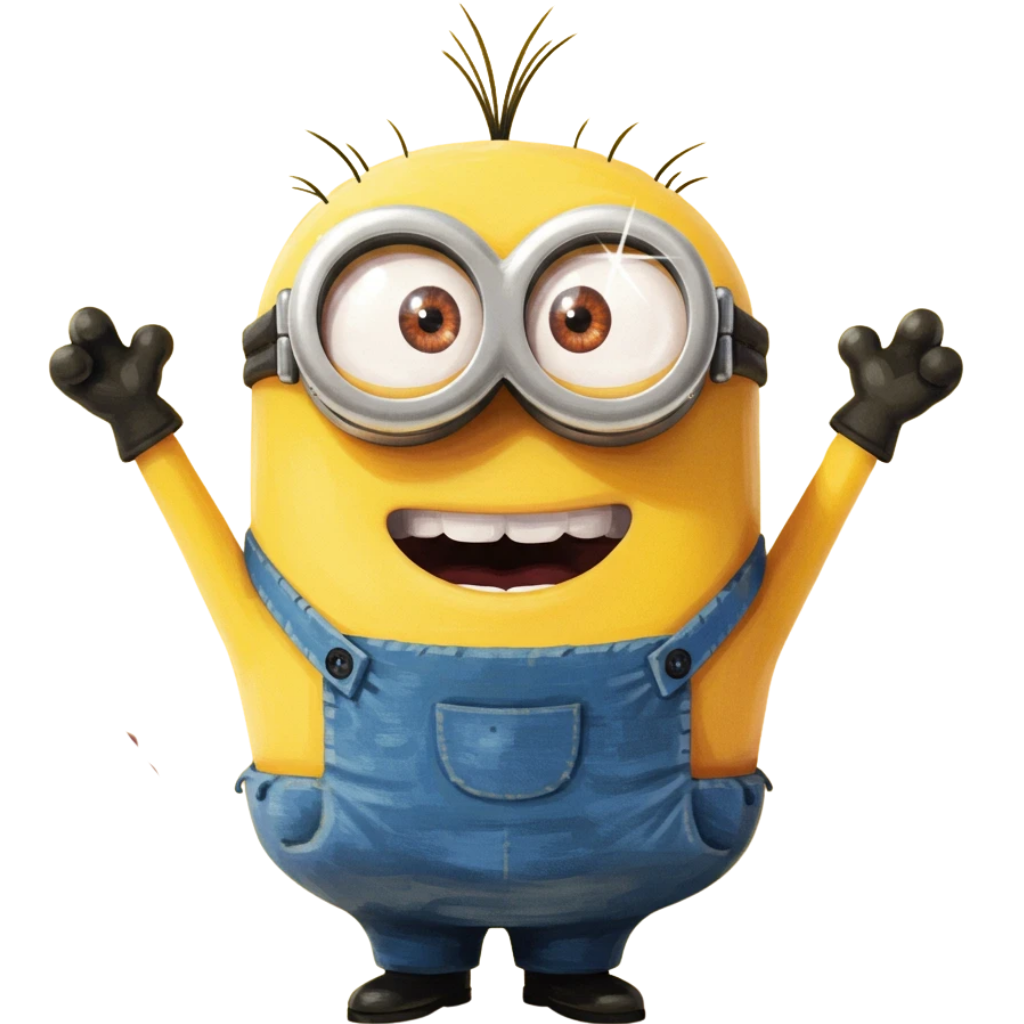
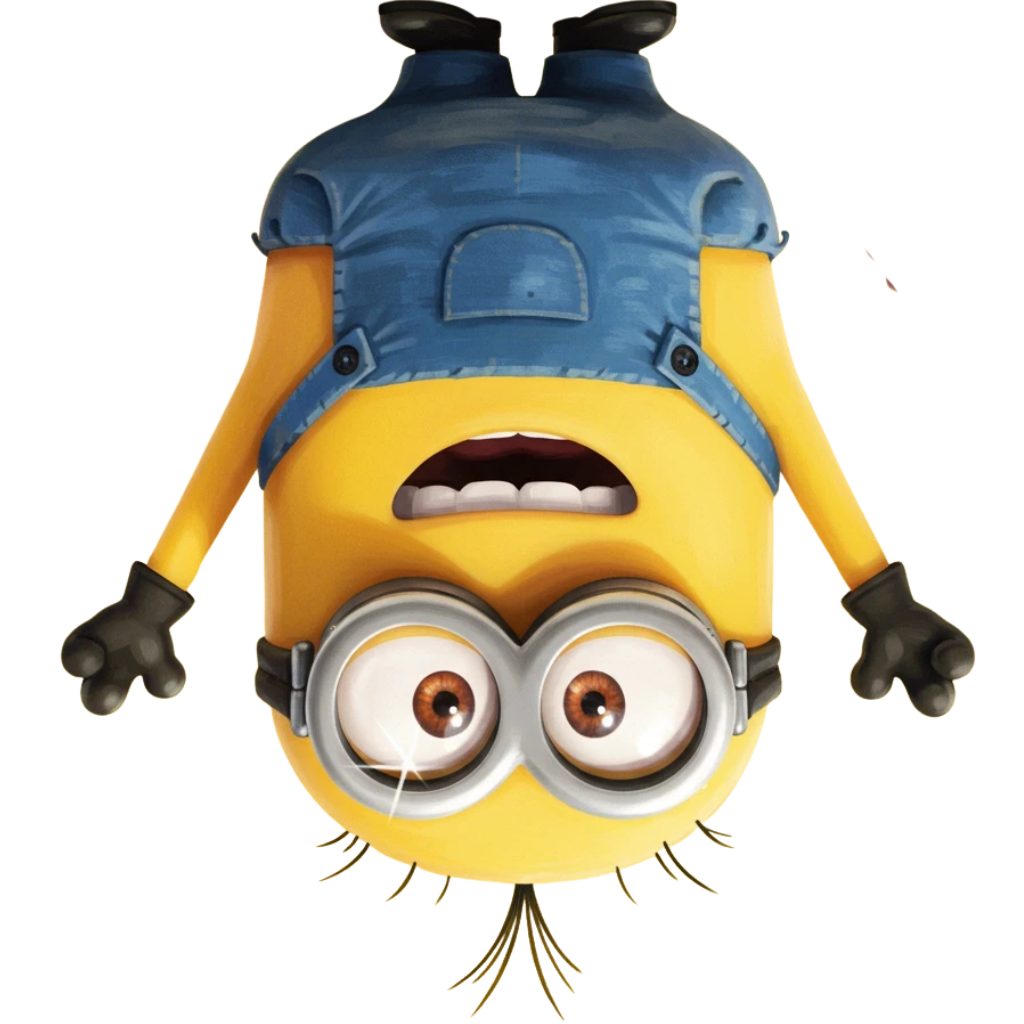
feat: add animated minion to CTA section and implement intersection observer for visibility

diff --git a/oneunifrontend/components/sections/(Landing)/cta.tsx b/oneunifrontend/components/sections/(Landing)/cta.tsx
@@ -1,13 +1,37 @@
 "use client"
 
-import { useState } from "react"
+import { useState, useRef, useEffect } from "react"
 import { EmailModal } from "../../forms/email-modal"
 import { ThankYouSection } from "./thank-you-section"
 import Button from "@/components/ui/button"
+import Image from "next/image"
 
 export default function CTA() {
   const [isModalOpen, setIsModalOpen] = useState(false)
   const [isSubmitted, setIsSubmitted] = useState(false)
+  const [showMinion, setShowMinion] = useState(false)
+  const sectionRef = useRef<HTMLDivElement>(null)
+
+  useEffect(() => {
+    const observer = new IntersectionObserver(
+      ([entry]) => {
+        setShowMinion(entry.isIntersecting)
+      },
+      {
+        threshold: 0.3, // Trigger when 30% of the section is visible
+      }
+    )
+
+    if (sectionRef.current) {
+      observer.observe(sectionRef.current)
+    }
+
+    return () => {
+      if (sectionRef.current) {
+        observer.unobserve(sectionRef.current)
+      }
+    }
+  }, [])
 
   const handleSubmit = (email: string, input: string) => {
     console.log("[v0] Form submitted with email:", email)
@@ -24,12 +48,32 @@ export default function CTA() {
   }
 
   return (
-    <section id="contact" className="py-24 px-4 sm:px-6 lg:px-8 relative overflow-hidden font-sans">
+    <section 
+      ref={sectionRef}
+      id="contact" 
+      className="py-24 px-4 sm:px-6 lg:px-8 relative overflow-hidden font-sans"
+    >
       {/* Dark Blue Background Wrapper */}
       <div className="max-w-7xl mx-auto bg-[#1e2266] rounded-[3rem] p-12 md:p-20 text-center relative overflow-hidden shadow-2xl">
          {/* Background Glow */}
          <div className="absolute top-1/2 left-1/2 -translate-x-1/2 -translate-y-1/2 w-[600px] h-[600px] bg-blue-500/20 rounded-full blur-[100px] pointer-events-none" />
          
+         {/* Animated Minion */}
+         <div 
+           className={`absolute right-4 md:right-8 w-32 h-32 md:w-40 md:h-40 transition-all duration-700 ease-in-out pointer-events-none z-20 ${
+             showMinion ? '-top-12 md:-top-10' : '-top-full'
+           }`}
+         >
+           <Image
+             src="/Images/minion.png"
+             alt="Minion"
+             width={160}
+             height={160}
+             className="w-full h-full object-contain drop-shadow-2xl scale-y-[-1]"
+             priority
+           />
+         </div>
+
          <div className="relative z-10">
            <h2 className="text-4xl md:text-5xl font-bold text-white mb-6 leading-tight">
              Ready to start your journey?
@@ -47,7 +91,7 @@ export default function CTA() {
              </Button>
              <Button
                variant="outline"
-               className="border-blue-400/30 text-white hover:bg-white/10 rounded-full px-8 py-4 text-lg font-medium backdrop-blur-sm"
+               className="border-blue-400/30 text-white hover:bg-white rounded-full px-8 py-4 text-lg font-medium backdrop-blur-sm"
              >
                Download Prospectus
              </Button>
